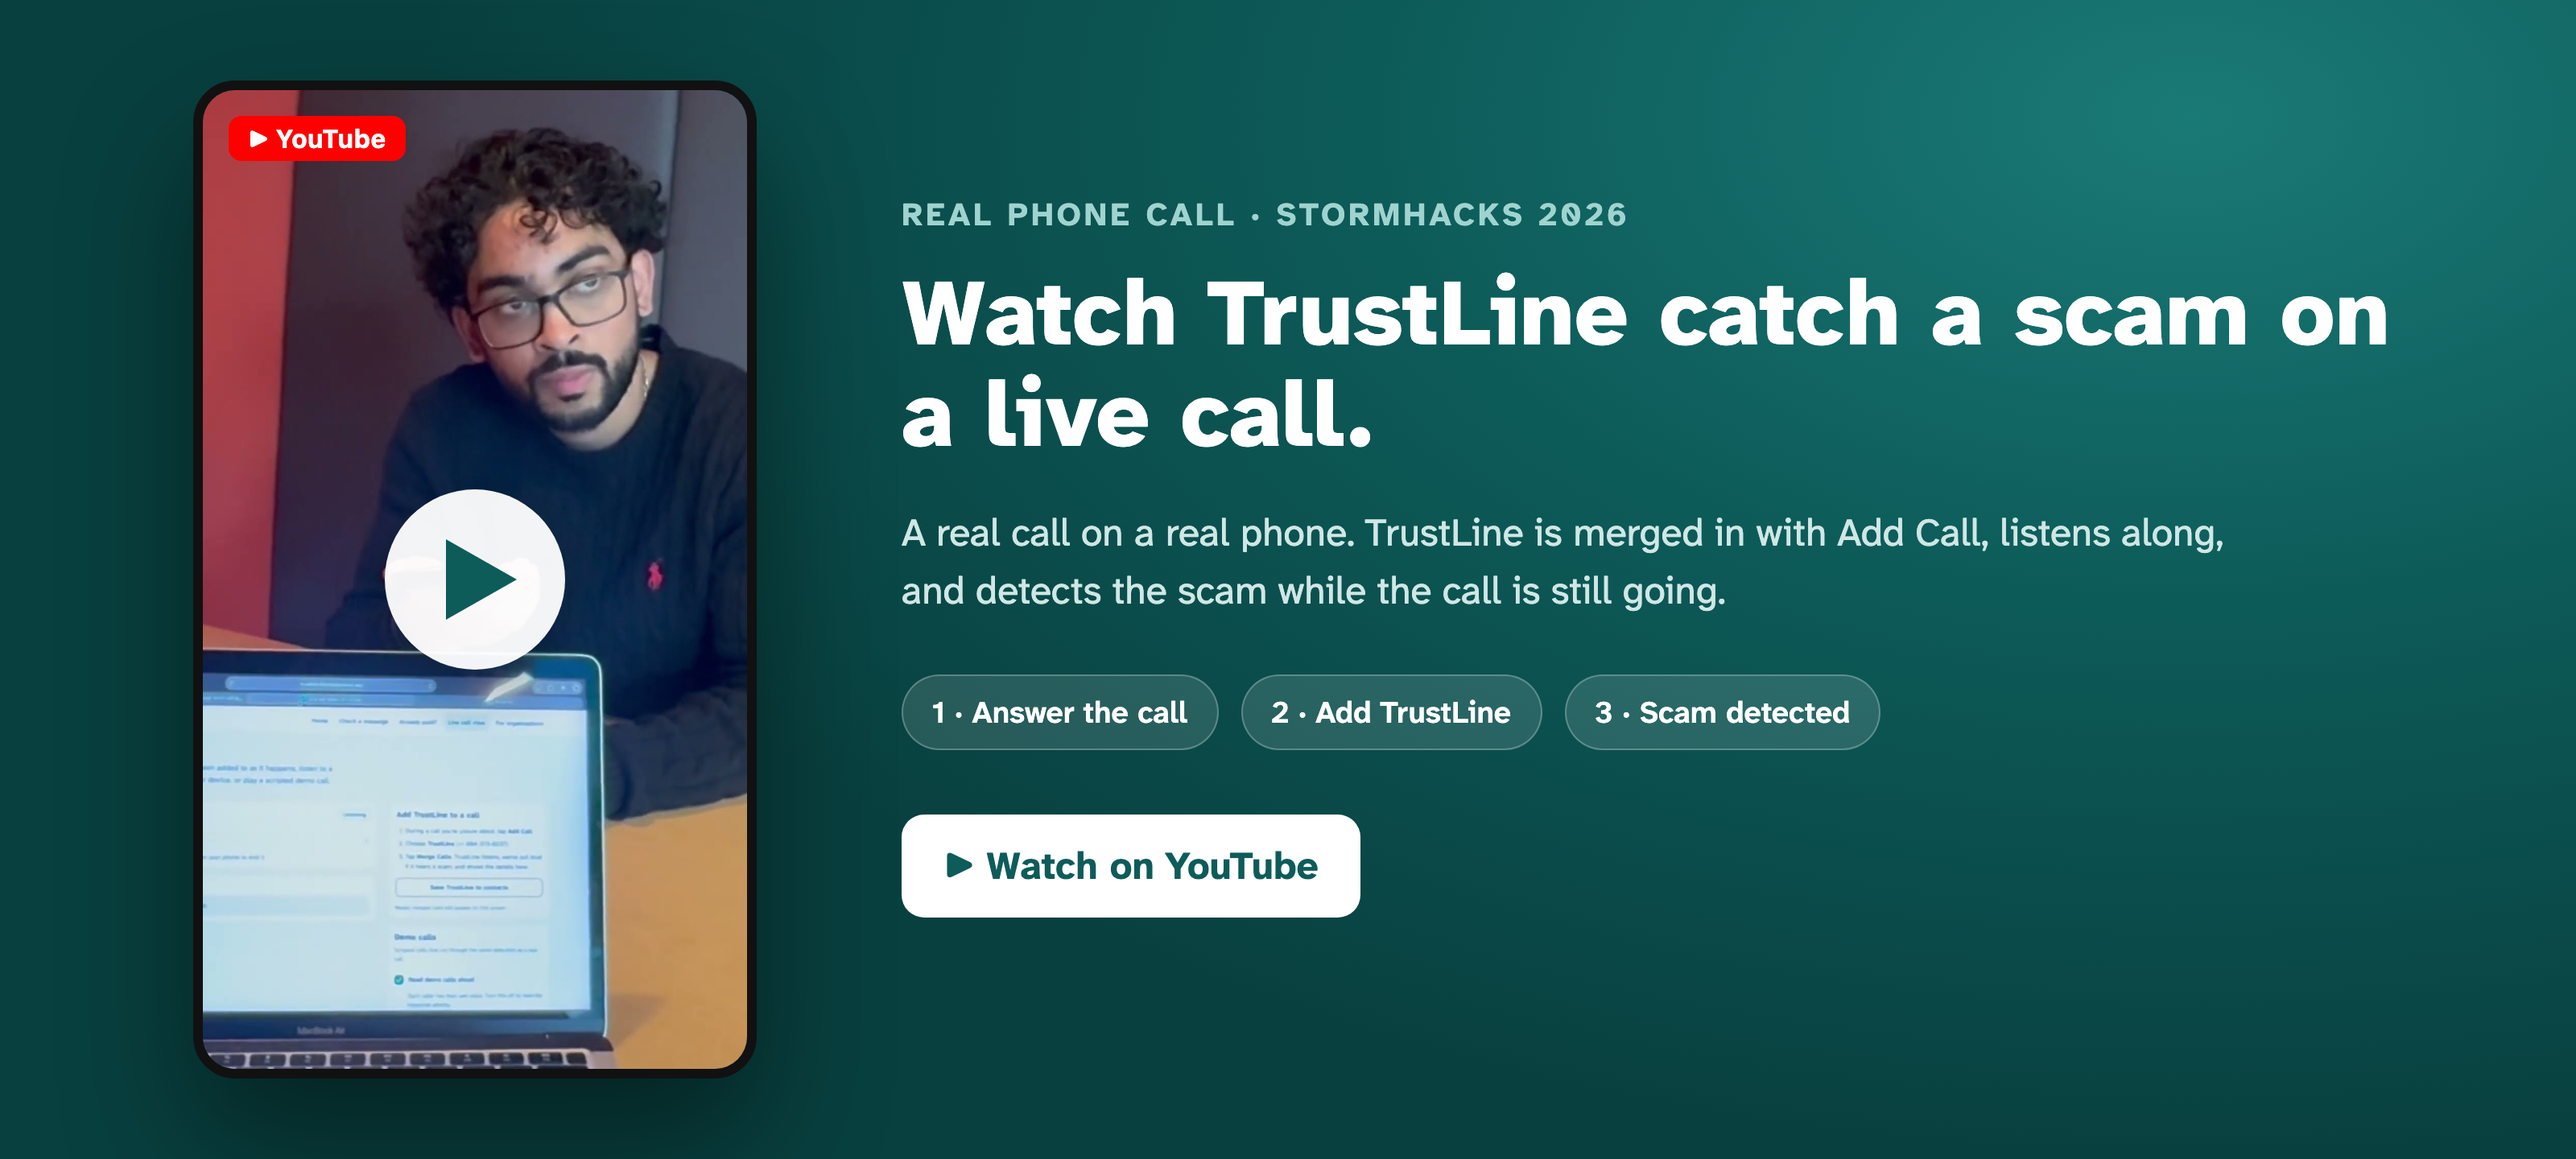
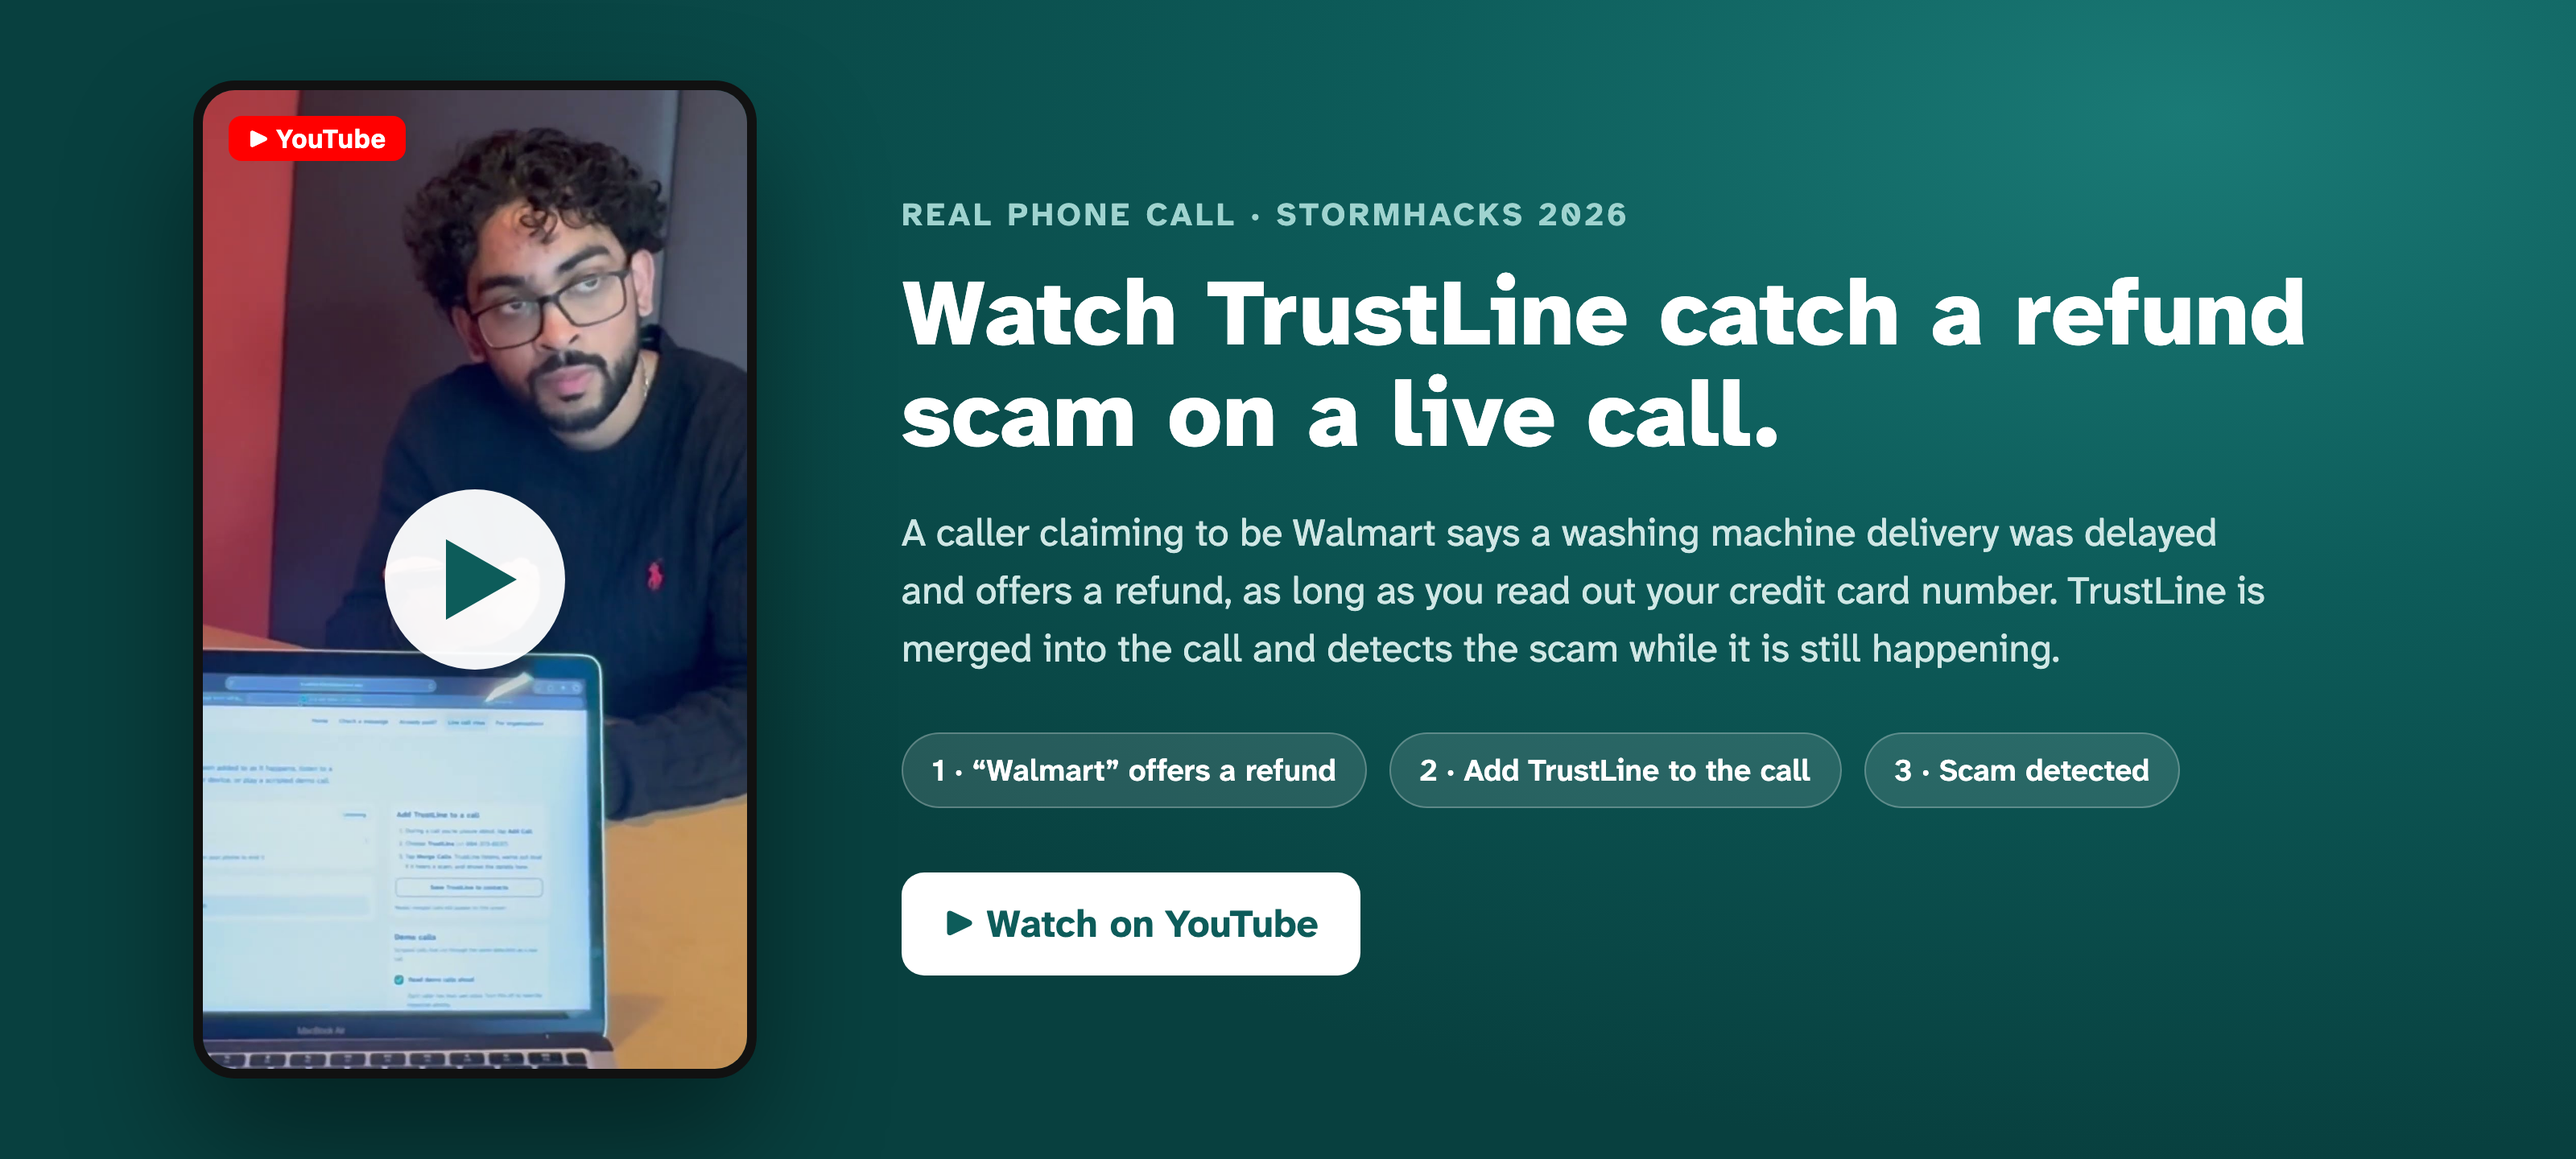
docs: describe the real call video as a fake Walmart refund scam

diff --git a/README.md b/README.md
@@ -26,9 +26,9 @@ Built in 36 hours at **StormHacks 2026** by [Ariel Tyson](https://github.com/ari
 
 ### A real phone call
 
-<a href="https://www.youtube.com/shorts/sm245cWq8DM"><img src="docs/demo/real-call-poster.png" alt="Rishon on a real phone call with TrustLine merged in; play the video on YouTube" width="100%"></a>
+<a href="https://www.youtube.com/shorts/sm245cWq8DM"><img src="docs/demo/real-call-poster.png" alt="Rishon on a real phone call with TrustLine merged in, catching a fake Walmart refund scam; play the video on YouTube" width="100%"></a>
 
-**[▶ Watch on YouTube](https://www.youtube.com/shorts/sm245cWq8DM)**: Rishon takes a phone call, adds TrustLine to it, and TrustLine detects the scam during the call.
+**[▶ Watch on YouTube](https://www.youtube.com/shorts/sm245cWq8DM)**: Ariel calls Rishon pretending to be Walmart: a washing machine delivery was delayed, and they want to refund him, but only if he reads out his credit card number. Rishon adds TrustLine to the call, and it detects the scam while the call is still going.
 
 ### Walkthrough of the app
 
@@ -41,6 +41,8 @@ Built in 36 hours at **StormHacks 2026** by [Ariel Tyson](https://github.com/ari
 Newcomers are frequent targets of phone scams: callers pose as immigration (IRCC), the CRA or a bank, threaten deportation or arrest, and demand gift cards or crypto within the hour. The warning signs are well known to settlement workers, but the person on the phone has to recognize them alone, under pressure, often in their second or third language.
 
 ## What TrustLine does
+
+TrustLine was designed with newcomers in mind, but it works on any scam call, from fake immigration officers to fake retailers offering a refund for your card number.
 
 **The product is a phone number.** During a suspicious call, the user taps Add Call, dials TrustLine and merges it in, the same way they would add a friend to a three-way call. There is no app to install.
 

diff --git a/docs/team-sync.md b/docs/team-sync.md
@@ -23,7 +23,7 @@ Add an entry when a change affects the other person: a new dependency or env var
 - **What changed:** `README.md` now leads with a hero image, badges, a demo GIF, the problem, engineering highlights, screenshots, architecture, a features table and the tech stack; the setup and testing sections are unchanged. The seven old screenshots in `docs/screenshots/` were replaced (they showed the demo user picker, "Share with Demo Newcomer Society" and a placeholder number) with new desktop and phone captures plus two composites (`hero.png`, `phones.png`). Added `public/demo/trustline-demo.mp4` (95 s, captioned, no audio; served by the site at `/demo/trustline-demo.mp4` because GitHub cannot play MP4s in the README) and `docs/demo/trustline-demo-preview.gif`.
 - **Why:** to present the project to employers.
 - **What the other person needs to do:** nothing. All captures come from a local run in basic mode (no API keys), so nothing used paid services.
-- The Demo section also links Rishon's real phone call on YouTube (https://www.youtube.com/shorts/sm245cWq8DM) through a poster image, `docs/demo/real-call-poster.png`, made from the video's thumbnail.
+- The Demo section also links Rishon's real phone call on YouTube (https://www.youtube.com/shorts/sm245cWq8DM) through a poster image, `docs/demo/real-call-poster.png`, made from the video's thumbnail. In the video Ariel plays a fake Walmart refund caller asking for a credit card number.
 - **Verified:** README rendered through GitHub's markdown API; every local image and link resolves. Rules-only eval rerun: precision 100%, recall 92%, 0/6 false positives; 187 tests pass.
 
 ### 2026-10-05: Hosted demo shut down to stop charges (Ariel)
